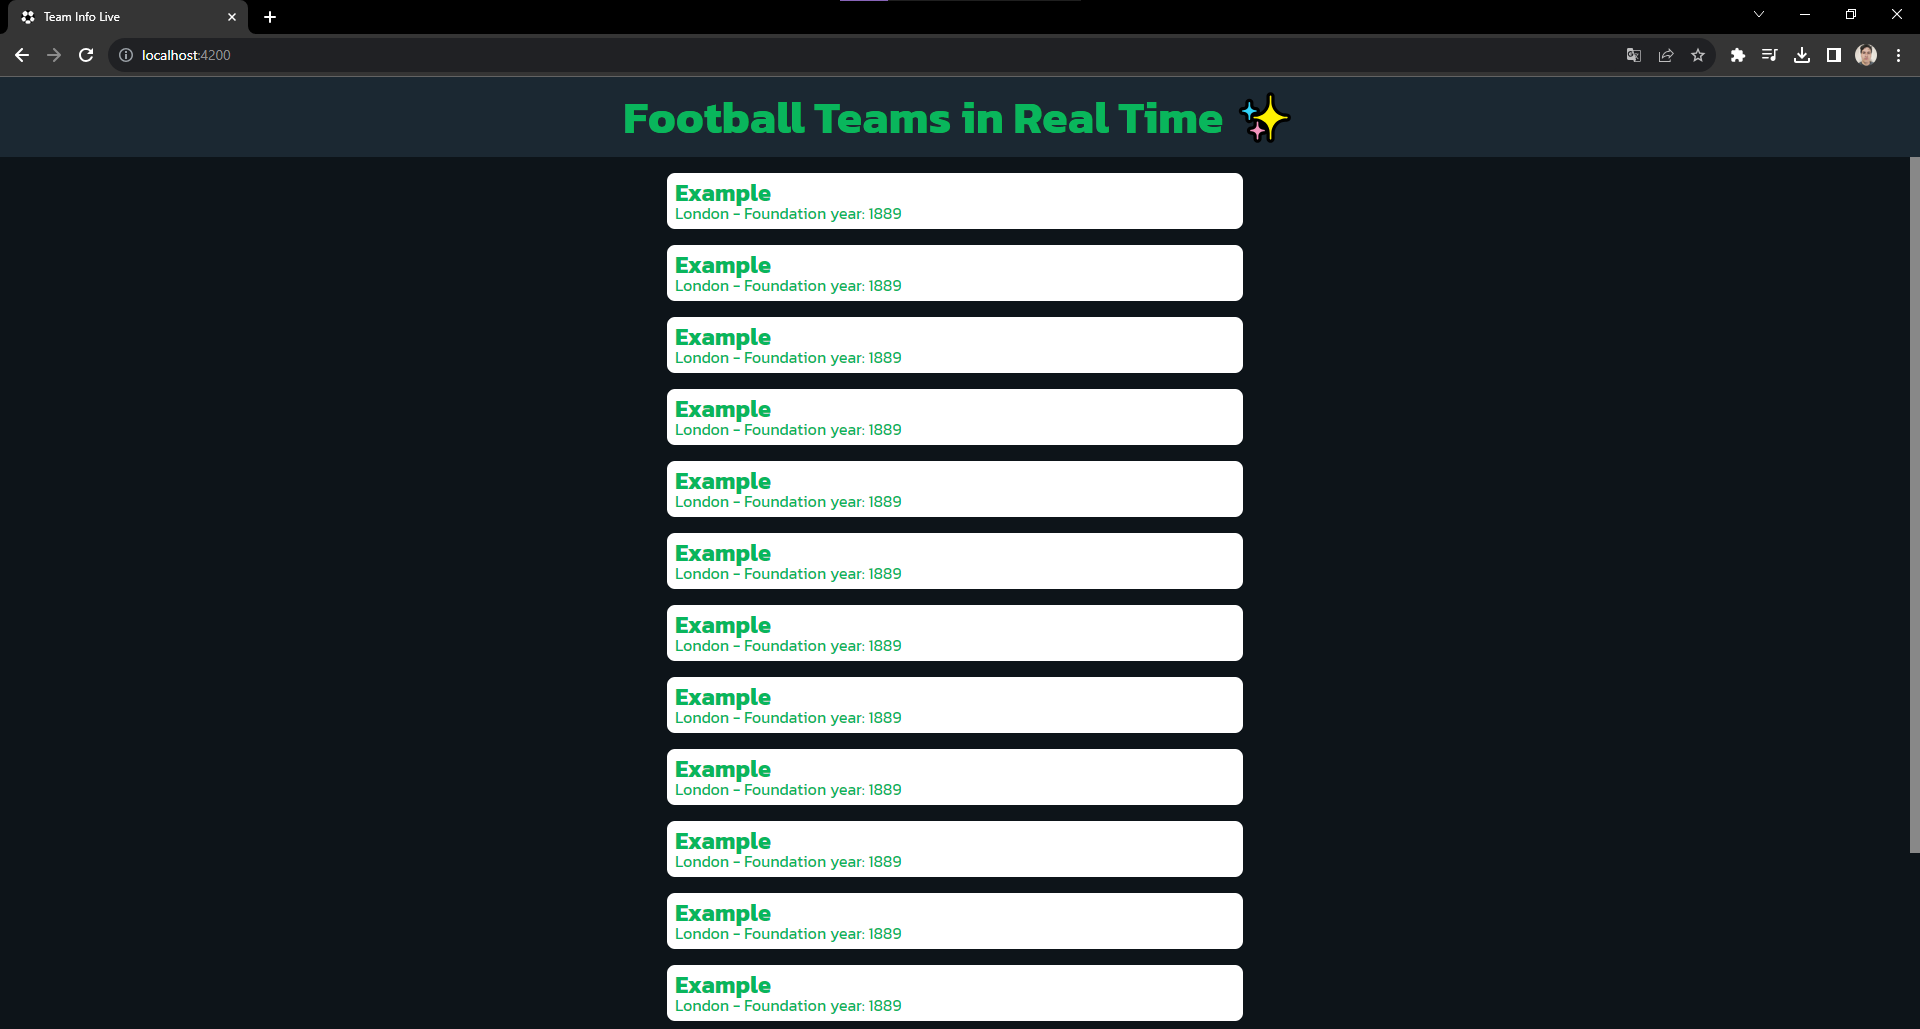
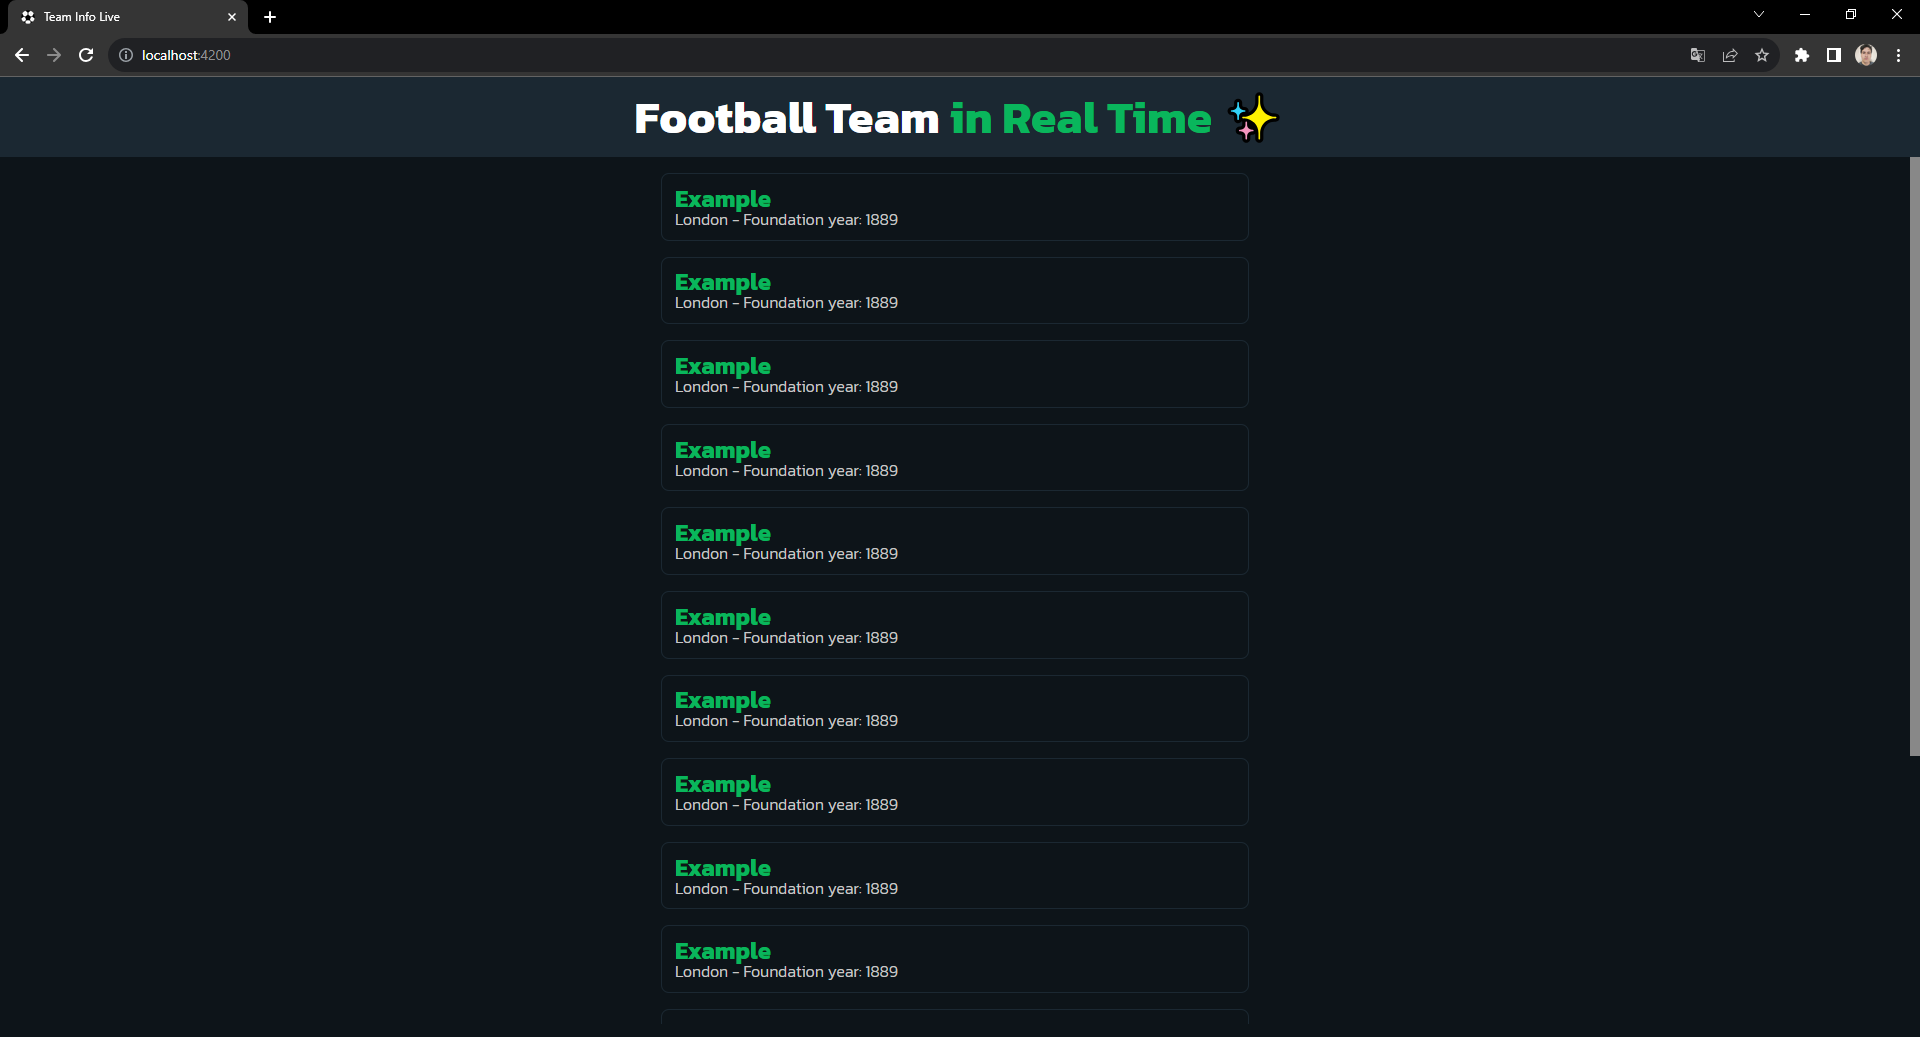
Update screenshots

diff --git a/src/app/components/team-list/team-list.component.scss b/src/app/components/team-list/team-list.component.scss
@@ -83,11 +83,18 @@
 
   .team-list-container{
     .title {
-      font-size: 2rem;
+      font-size: 1.5rem;
     }
-
     .team-card {
       width: 20rem;
+    }
+    .team-card h2 {
+      font-size: 1.3rem;
+
+    }
+
+    .team-card p {
+      font-size: 0.8rem;
     }
   }
 }
